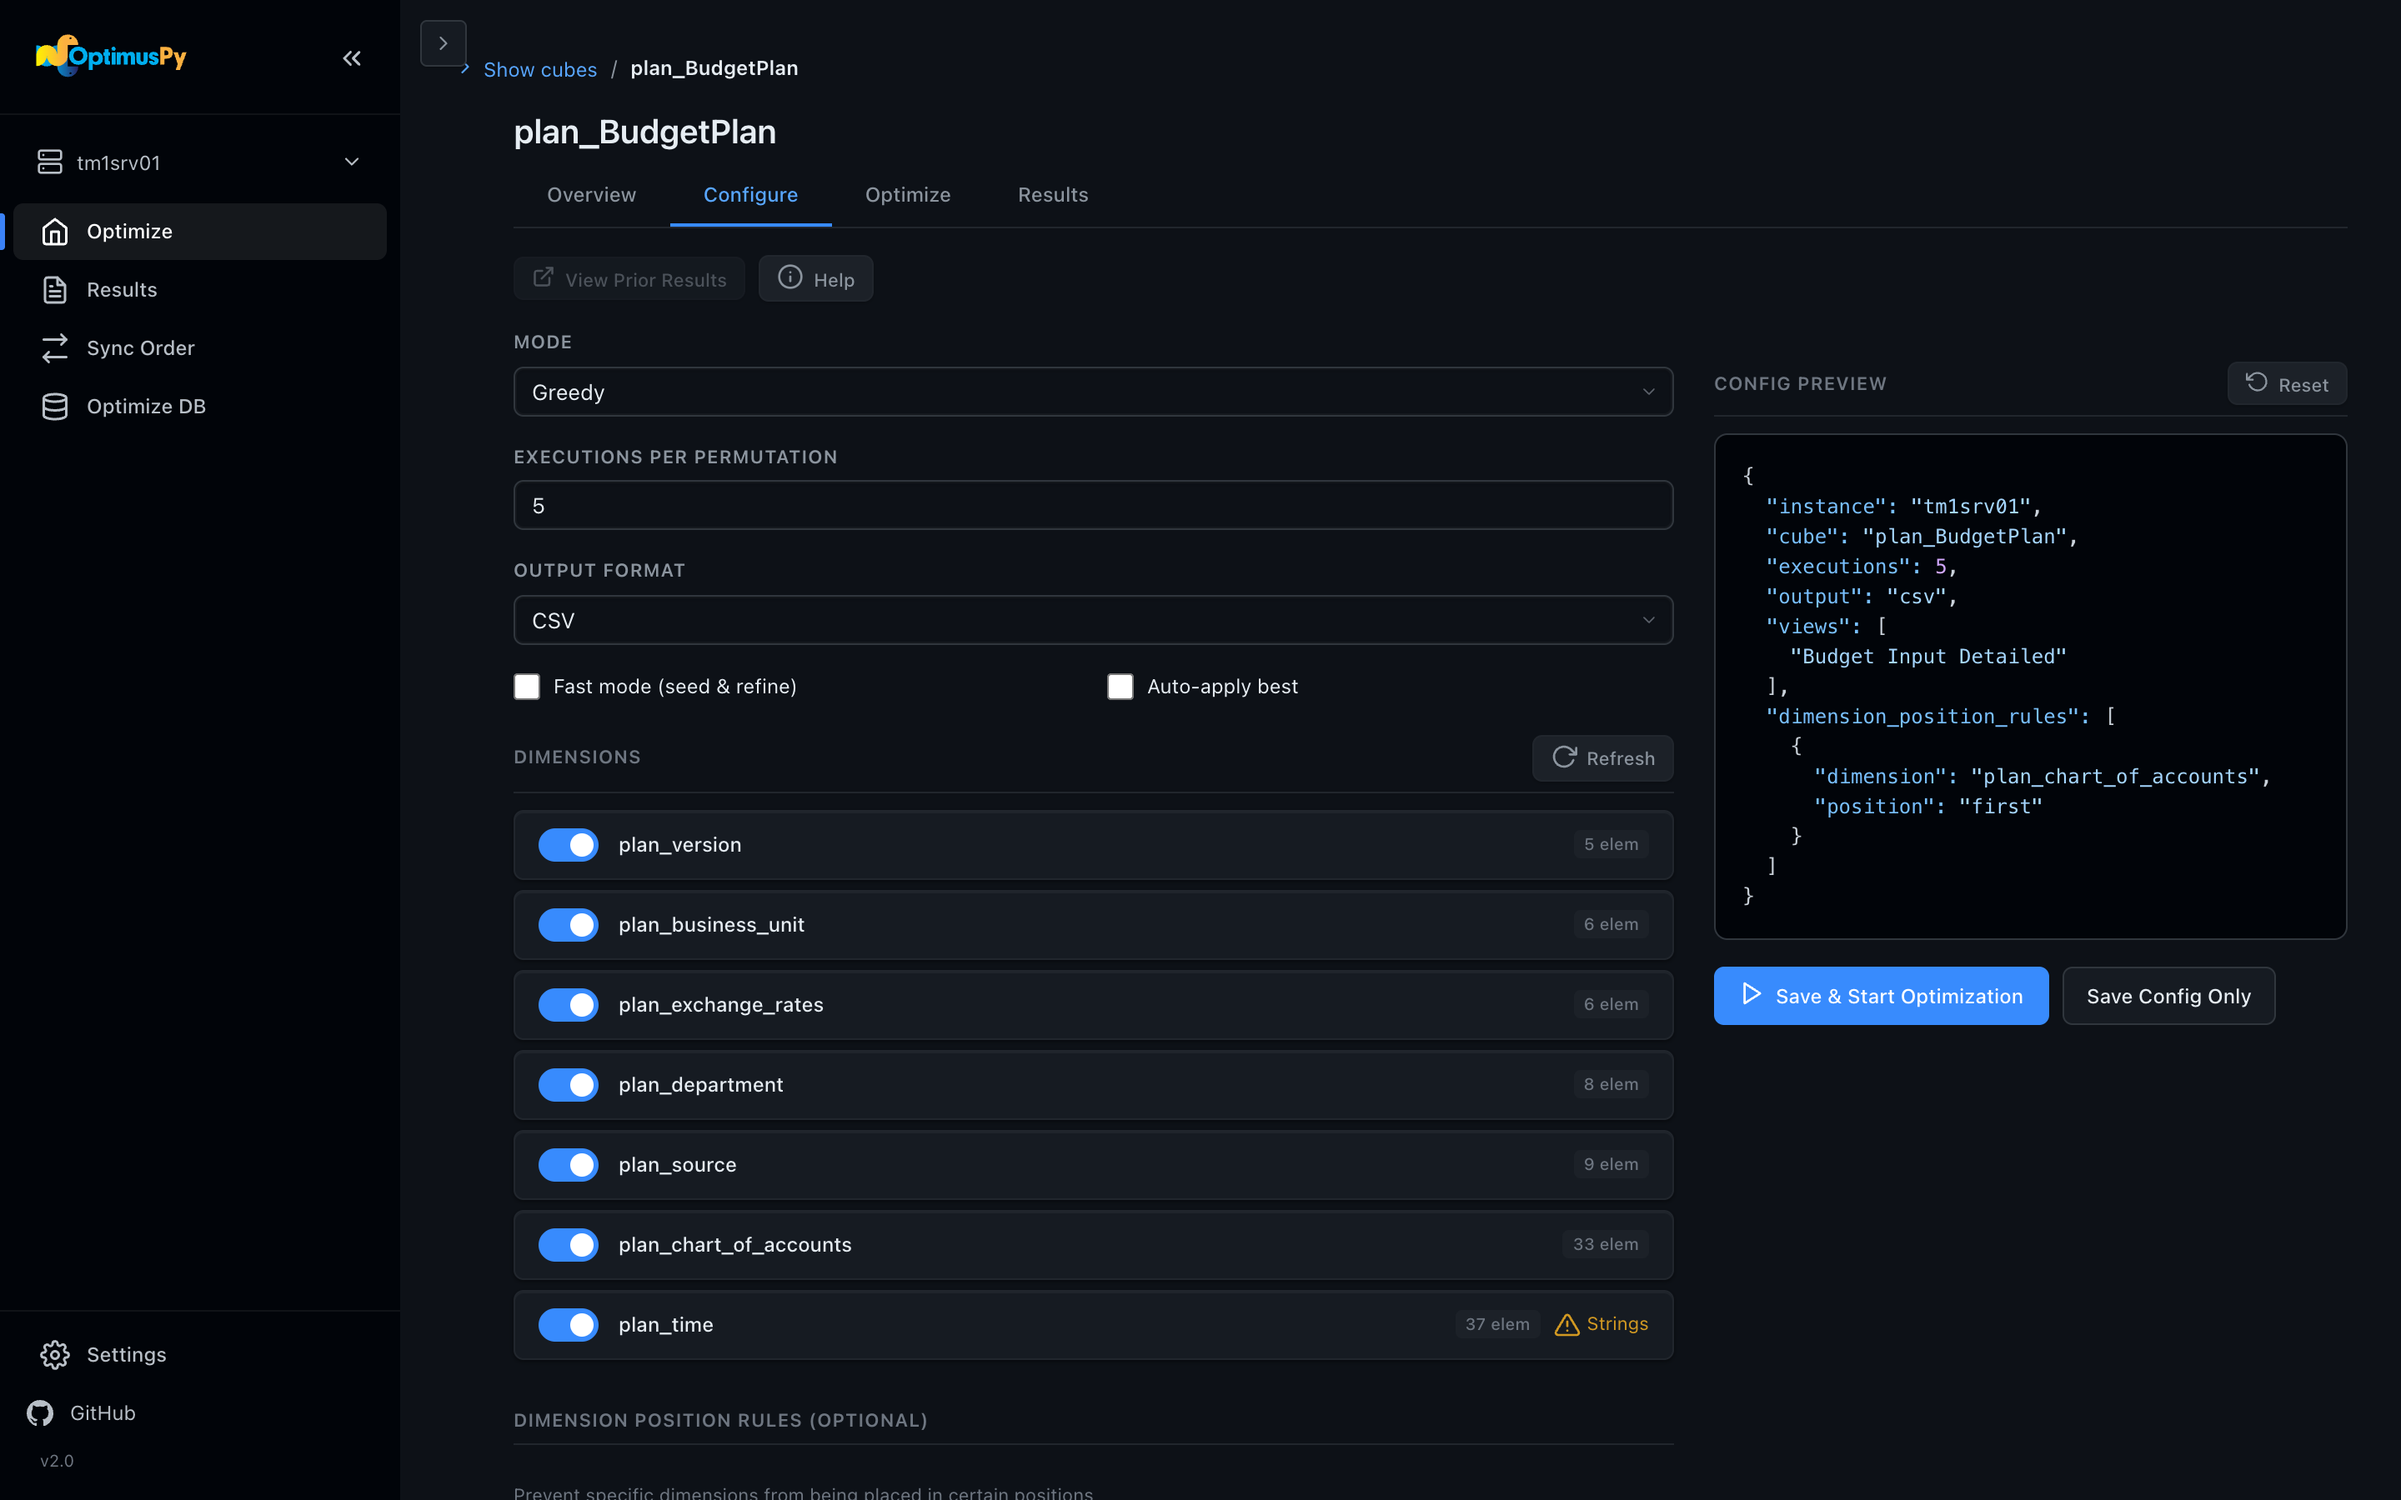
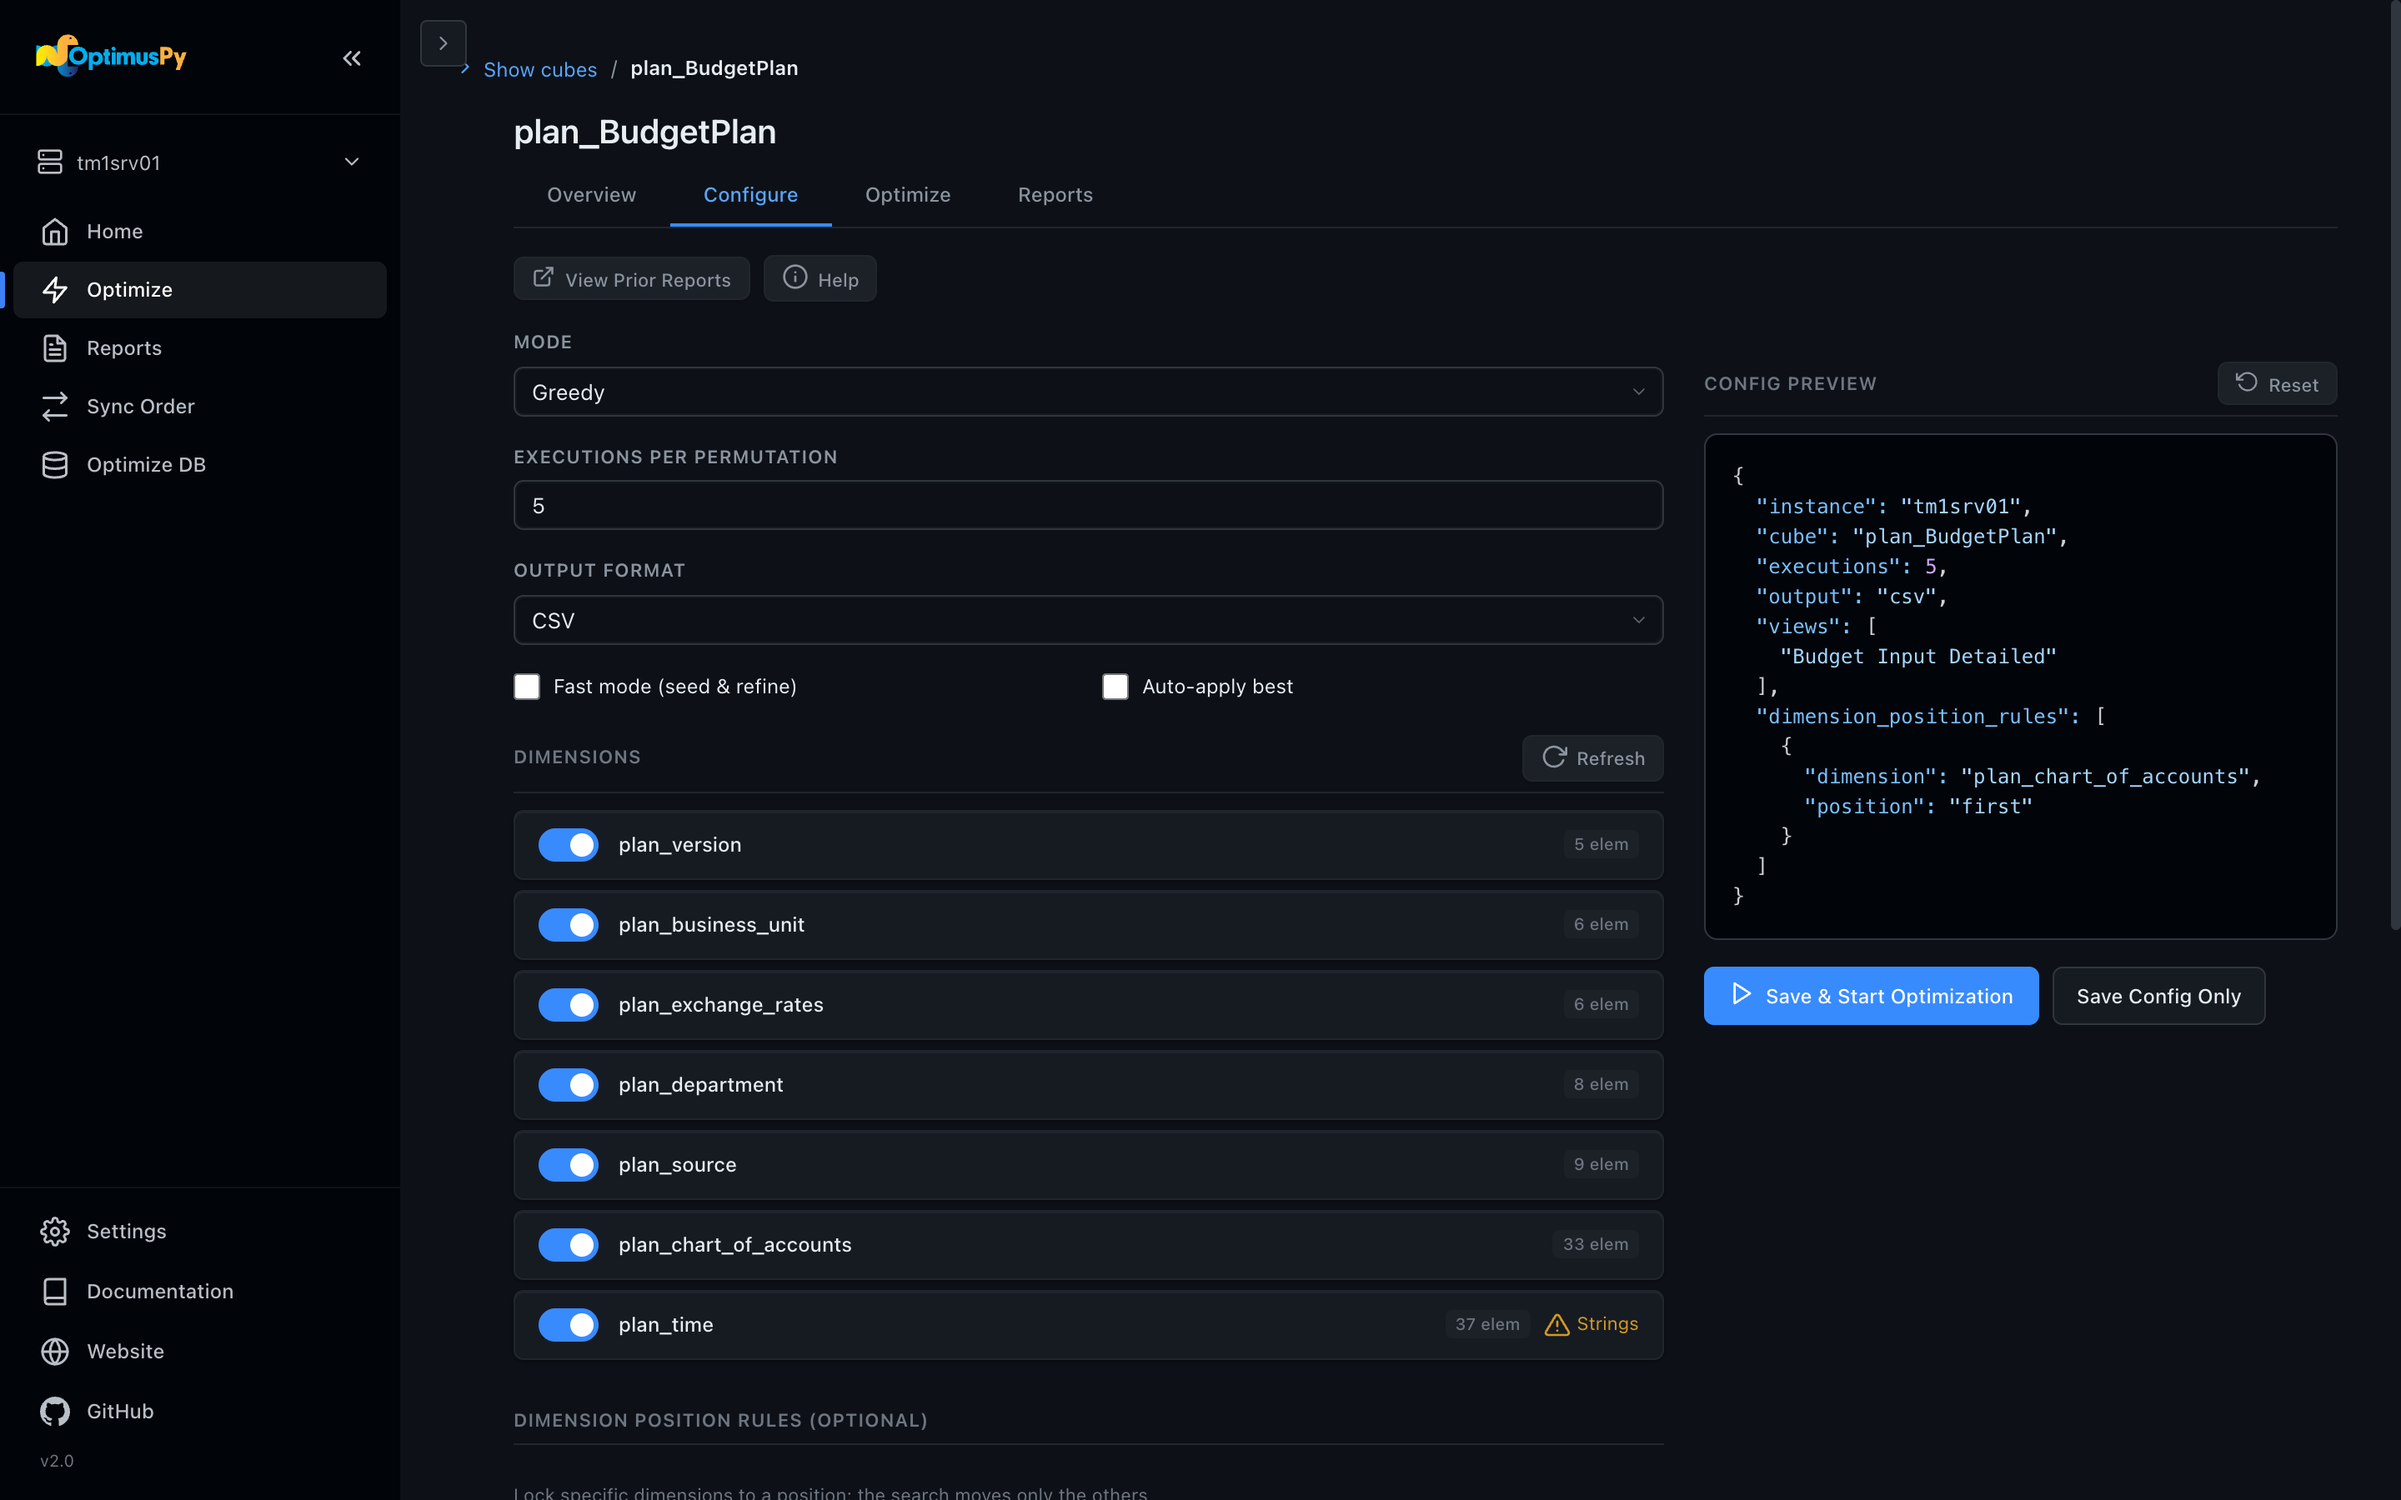
docs: full-page screenshots with the current sidebar

diff --git a/docs/getting-started/quick-start.md b/docs/getting-started/quick-start.md
@@ -11,6 +11,6 @@ Get from a fresh install to your first optimized cube in about 10 minutes.
 3. **Pick a cube.** Choose the instance in the sidebar. The *Optimize* page lists the biggest cubes, up to 60% of the instance's memory (move the *RAM Threshold* slider to see more); click one.
 4. **Run it.** On *Configure*, keep *Greedy*, pick a view and click *Save & Start Optimization*. When it ends, open the HTML report from the cube's *Reports* tab.
 
-![OptimusPy Optimize page on first launch](../assets/images/optimuspy/ui/optimize-page.png)
+![OptimusPy Home page on first launch, with the instance tiles and Tips & Getting Started](../assets/images/optimuspy/ui/optimize-page.png)
 
 The full walkthrough, in the UI and on the command line, is in the User Guide: [Your First Optimization →](../guide/first-optimization.md)

diff --git a/docs/ui/optimize-db-page.md b/docs/ui/optimize-db-page.md
@@ -39,7 +39,7 @@ The first time you pick an instance after the page loads, the **Connect to Insta
 
 If no cube qualifies, the page says so and there's nothing to run.
 
-![A built plan: the stat cards, two cubes to reorder with their new dimension orders, and six skipped cubes grouped by reason](../assets/images/optimuspy/ui/optimize-db-plan.png)
+![A built plan: the stat cards, one cube to reorder with its new dimension order, and seven skipped cubes grouped by reason](../assets/images/optimuspy/ui/optimize-db-plan.png)
 
 ## Run plan
 

diff --git a/docs/ui/jobs-page.md b/docs/ui/jobs-page.md
@@ -2,7 +2,7 @@
 
 Every job the UI server has run since it started (optimizations, syncs and Optimize DB runs), newest first. The page has no sidebar item: open it at `#/jobs`.
 
-![Jobs page listing a completed single-cube optimization and a completed Sync Order](../assets/images/optimuspy/ui/jobs-page.png)
+![Jobs page listing two completed single-cube optimizations and a completed Sync Order](../assets/images/optimuspy/ui/jobs-page.png)
 
 ## The job list
 
